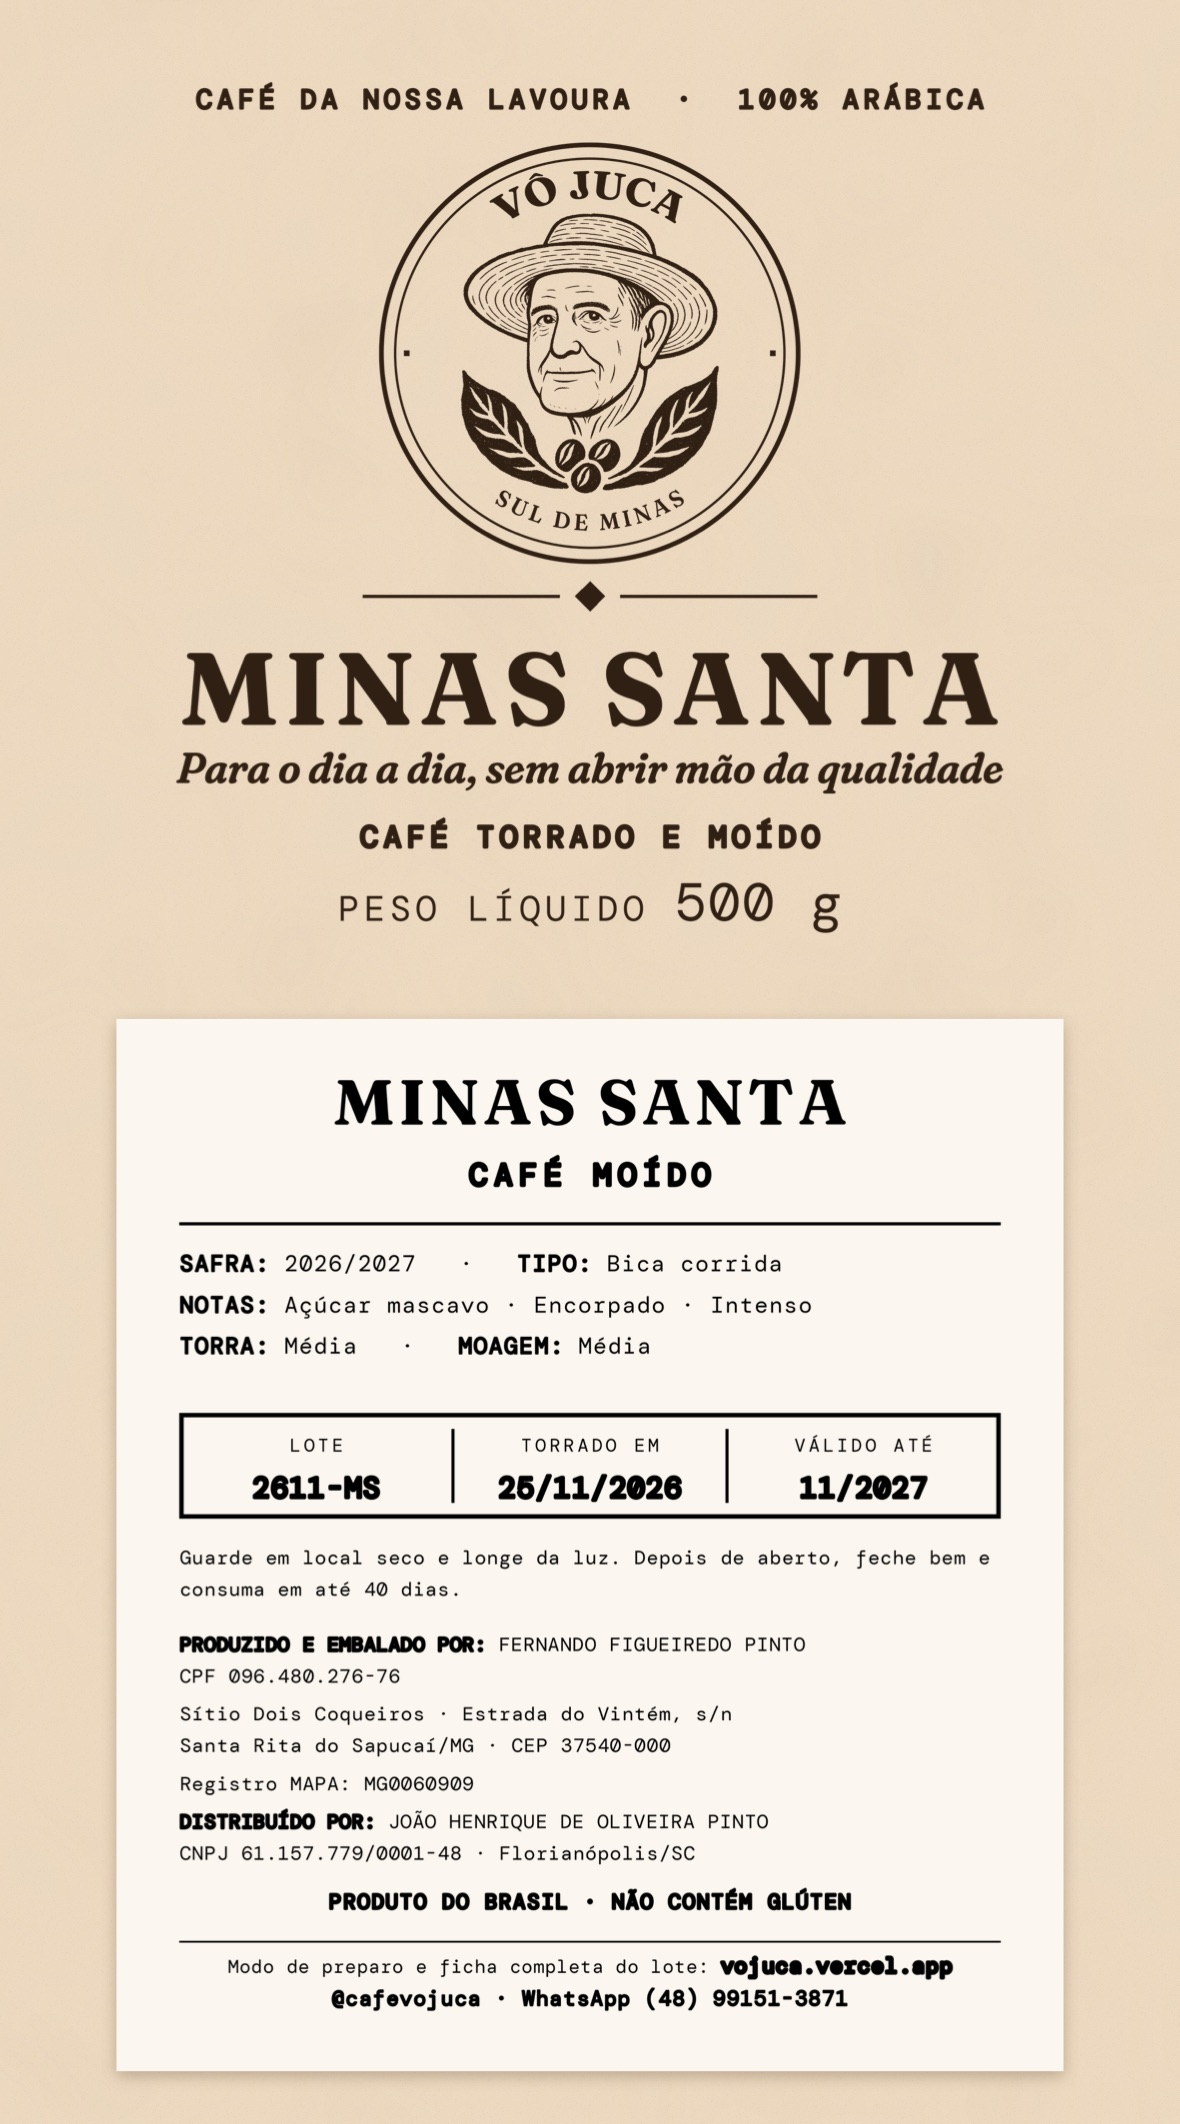
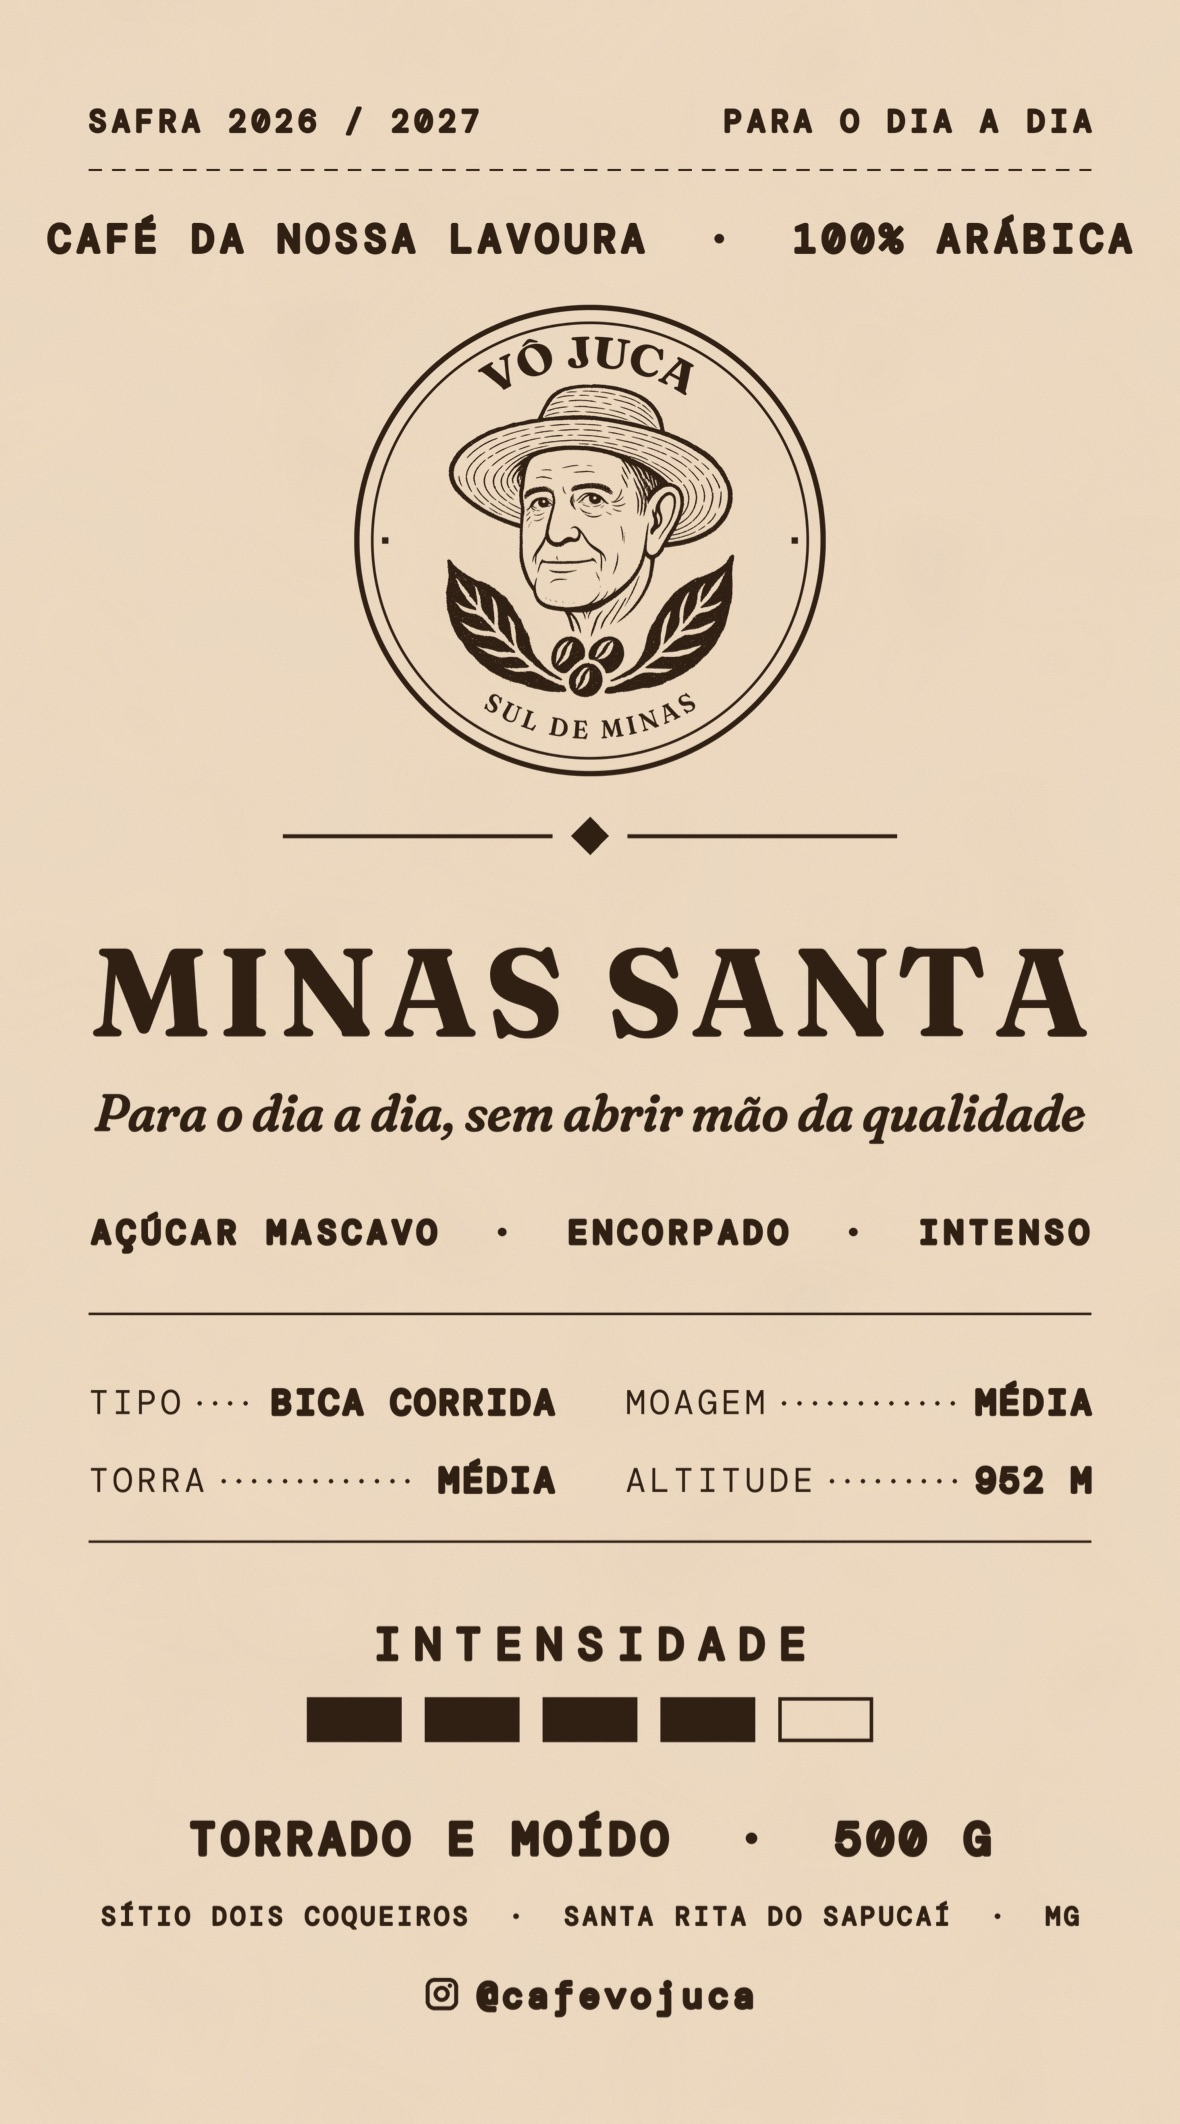
feat: rotulos completos do lote 2611 na prancheta

diff --git a/src/dados.ts b/src/dados.ts
@@ -112,18 +112,18 @@ export const CAFES: Cafe[] = [
     planilha: "Café Vô Juca",
     nome: "Café Vô Juca",
     banner: "vojuca",
-    tarja: "O café da casa",
+    tarja: "Seleção especial",
     qualificacao: ["Café especial · 100% arábica", "Lote 2611 · Torra média"],
     chamada: "Para os momentos que pedem algo a mais",
     notas: ["Chocolate ao leite", "Melaço", "Adocicado"],
     fichas: [
       { rotulo: "Pontuação", valor: "81 pts", sobre: "A nota deste lote é a avaliação do próprio produtor." },
       { rotulo: "Peneira", valor: "15 +" },
+      { rotulo: "Torra", valor: "Média" },
+      { rotulo: "Altitude", valor: "952 m" },
       { rotulo: "Variedade", valor: "Mundo Novo" },
       { rotulo: "Processo", valor: "Natural" },
-      { rotulo: "Altitude", valor: "952 m" },
       { rotulo: "Safra", valor: "2026/2027" },
-      { rotulo: "Torra", valor: "Média" },
       { rotulo: "Torrado em", valor: "25/11/2026" },
     ],
     intensidade: 3,
@@ -139,18 +139,18 @@ export const CAFES: Cafe[] = [
     planilha: "Reserva 998",
     nome: "Reserva 998",
     banner: "reserva998",
-    tarja: "Microlote",
+    tarja: "Edição limitada",
     qualificacao: ["Café especial · 100% arábica", "Lote 2611 · Torra média"],
     chamada: "Para pessoas e momentos especiais",
     notas: ["Frutas cítricas e amarelas", "Damasco", "Suave"],
     fichas: [
       { rotulo: "Pontuação", valor: "83,81 pts", sobre: "Esta nota foi dada no VIII Cupping de Cafés Especiais ATeG Café+Forte, uma prova às cegas entre cafés de produtores do programa." },
       { rotulo: "Peneira", valor: "17 +" },
+      { rotulo: "Torra", valor: "Média" },
+      { rotulo: "Altitude", valor: "952 m" },
       { rotulo: "Variedade", valor: "Mundo Novo" },
       { rotulo: "Processo", valor: "Natural" },
-      { rotulo: "Altitude", valor: "952 m" },
       { rotulo: "Safra", valor: "2026/2027" },
-      { rotulo: "Torra", valor: "Média" },
       { rotulo: "Torrado em", valor: "25/11/2026" },
     ],
     intensidade: 2.5,
@@ -228,11 +228,11 @@ export const CAFES: Cafe[] = [
     fichas: [
       { rotulo: "Tipo", valor: "Bica corrida" },
       { rotulo: "Moagem", valor: "Média" },
+      { rotulo: "Torra", valor: "Média" },
+      { rotulo: "Altitude", valor: "952 m" },
       { rotulo: "Variedade", valor: "Mundo Novo" },
       { rotulo: "Processo", valor: "Natural" },
-      { rotulo: "Altitude", valor: "952 m" },
       { rotulo: "Safra", valor: "2026/2027" },
-      { rotulo: "Torra", valor: "Média" },
       { rotulo: "Torrado em", valor: "25/11/2026" },
     ],
     intensidade: 4,
